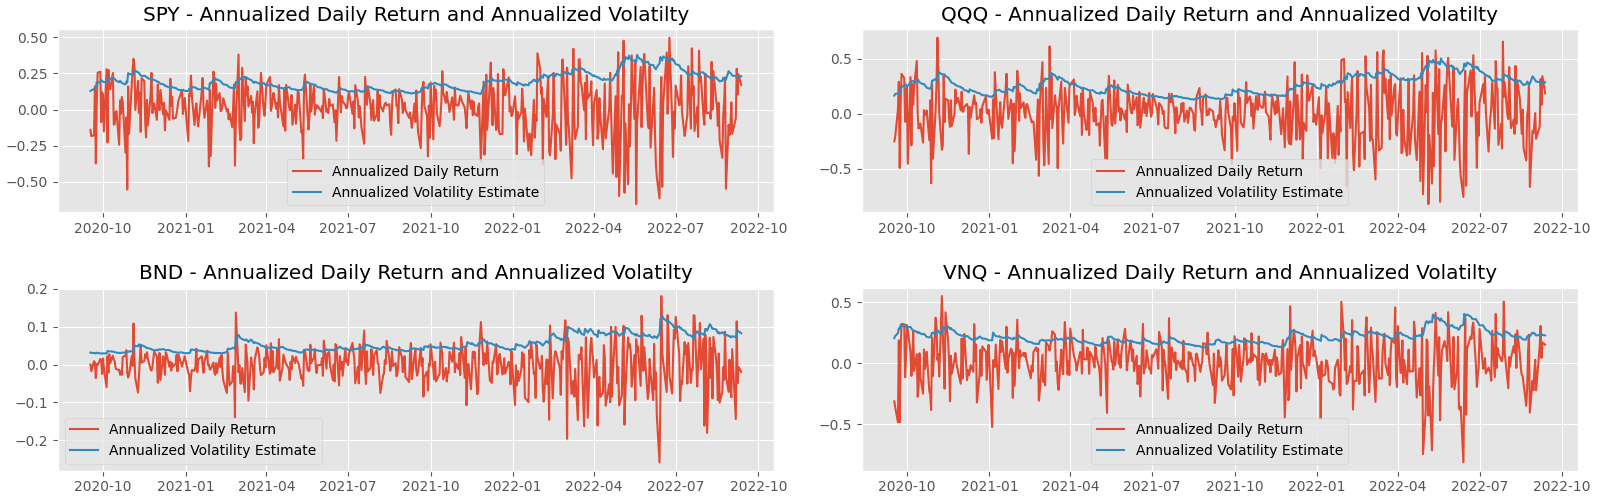
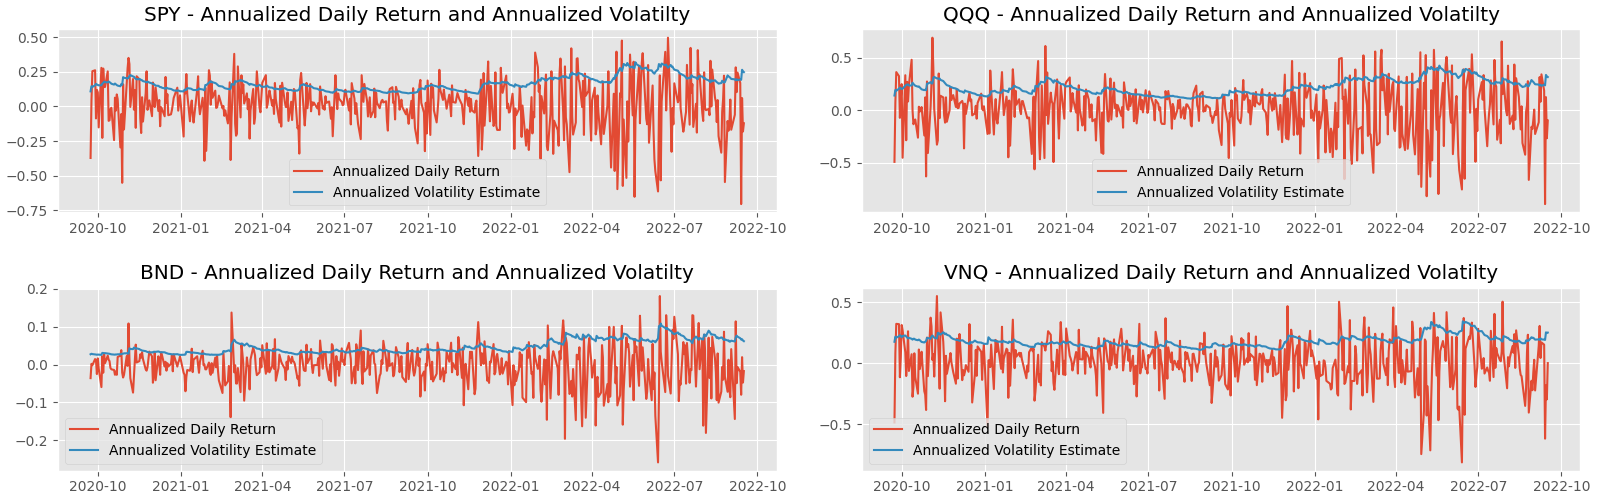
Rerun images and examples after code change.

diff --git a/README.md b/README.md
@@ -124,10 +124,10 @@ model.fit(fit_history)
 print(f"Likelihood: {model.mean_log_likelihood(fit_history):.4f}")
 ```
 
-If you ran this code on 2022-09-12, you might see something like:
+If you ran this code on 2022-09-19, you might see something like:
 
-```
-Likelihood: 15.2868
+```console
+Likelihood: 15.2849
 ```
 
 ### Using the Model
@@ -177,17 +177,17 @@ print(
 
 ```
 
-If you ran this code on 2022-09-12, you might see something like:
+If you ran this code on 2022-09-19, you might see something like:
 
 ```console
 Next day volatility prediction (annualized):
-[0.24272123 0.30139446 0.08419606 0.2395135 ]
+[0.27073285 0.33625355 0.05883523 0.25986665]
 
 Next day correlation prediction:
-[[1.         0.9603142  0.12006433 0.7841618 ]
- [0.9603142  1.         0.14455643 0.7046279 ]
- [0.12006433 0.14455643 1.         0.22765702]
- [0.7841618  0.7046279  0.22765702 0.9999998 ]]
+[[1.         0.9702157  0.10875233 0.8384389 ]
+ [0.9702157  1.         0.12562908 0.77586114]
+ [0.10875233 0.12562908 1.         0.22840934]
+ [0.8384389  0.77586114 0.22840934 0.9999999 ]]
 ```
 
 A sample plot of historic volatility obtained from this data follows
@@ -232,17 +232,17 @@ print(
 
 ```
 
-If you ran this code on 2022-09-12, you might see something like:
+If you ran this code on 2022-09-19, you might see something like:
 
 ```console
 Std dev of total returns over simulation period (126 days):
-[0.15605381 0.18821143 0.03908034 0.18603522]
+[0.19662732 0.2331021  0.03502716 0.22605737]
 
 Correlation of total returns over simulation period (126 days):
-[[ 1.          0.91632208 -0.08541442  0.69823601]
- [ 0.91632208  1.         -0.03951417  0.57860402]
- [-0.08541442 -0.03951417  1.          0.02317722]
- [ 0.69823601  0.57860402  0.02317722  1.        ]]
+[[ 1.          0.86296704 -0.08967935  0.70158927]
+ [ 0.86296704  1.         -0.07110933  0.54363716]
+ [-0.08967935 -0.07110933  1.          0.02450721]
+ [ 0.70158927  0.54363716  0.02450721  1.        ]]
 ```
 
 Plots showing historic prices and *simulated* future prices obtained
